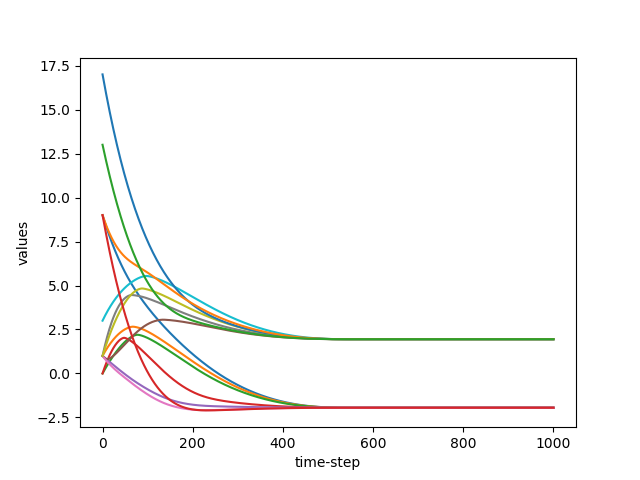
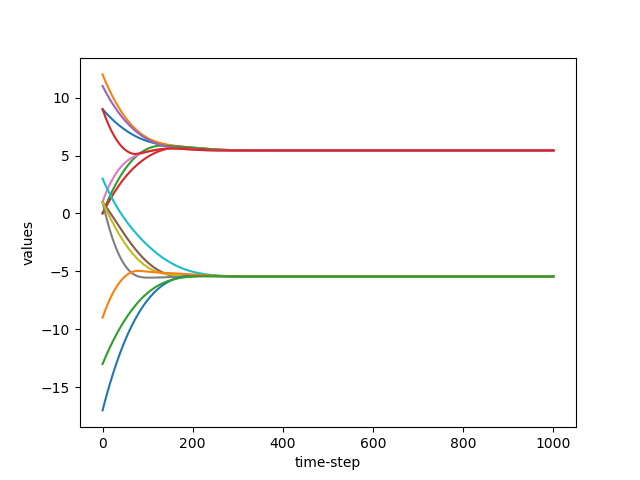
添加假的第三周的内容

diff --git a/week_3/code/ftc_cai_robustness_attack_check.py b/week_3/code/ftc_cai_robustness_attack_check.py
@@ -188,17 +188,17 @@ def attack(cur_value, time_step, attack_mode):
         '''
         F-local attack
         '''
-        if time_step == 1:
+        if time_step == 5:
             '''First sharp change'''
-            return 1
+            return 9
         else:
             '''Then, change steadily'''
-            return cur_value + 0.01
+            return cur_value - 0.01
     else:
         if time_step % 2 == 0:
-            return random.uniform(17, 18)
+            return random.uniform(16, 18)
         else:
-            return random.uniform(12, 13)
+            return random.uniform(8, 9)
 
 
 def ftc_cai_f_local(data_path, fig_path, fig_name, malicious_node, attack_mode):
@@ -207,7 +207,7 @@ def ftc_cai_f_local(data_path, fig_path, fig_name, malicious_node, attack_mode):
     matrix = get_adj_mat(graph=graph)
     print(matrix)
 
-    for time_step in range(5500):
+    for time_step in range(6000):
         for i in range(1, len(graph.nodes()) + 1):
             if i == malicious_node:
                 graph.node[i]['value'].append(
@@ -227,7 +227,7 @@ def ftc_cai_f_local(data_path, fig_path, fig_name, malicious_node, attack_mode):
 
     plt.xlabel("time-step")
     plt.ylabel("values")
-    x_axis = range(5501)
+    x_axis = range(6001)
     for i in graph.nodes():
         plt.plot(x_axis, graph.node[i]['value'])
     plt.savefig(
@@ -237,13 +237,13 @@ def ftc_cai_f_local(data_path, fig_path, fig_name, malicious_node, attack_mode):
 
 if __name__ == '__main__':
     # Balanced and unbalanced cases
-    ftc_cai(data_path="./data/data-balanced-with-7_7-nodes.in", fig_path="./pngs",
-            fig_name="Finit-Time-Consensus-Balanced-With-7_7-Nodes", graph_name="-Balanced")
-    ftc_cai(data_path="./data/data-unbalanced-with-7_7-nodes.in", fig_path="./pngs",
-            fig_name="Finit-Time-Consensus-Unbalanced-With-7_7-Nodes", graph_name="-Unbalanced")
+    # ftc_cai(data_path="./data/data-balanced-with-7_7-nodes.in", fig_path="./pngs",
+    #         fig_name="Finit-Time-Consensus-Balanced-With-7_7-Nodes", graph_name="-Balanced")
+    # ftc_cai(data_path="./data/data-unbalanced-with-7_7-nodes.in", fig_path="./pngs",
+    #         fig_name="Finit-Time-Consensus-Unbalanced-With-7_7-Nodes", graph_name="-Unbalanced")
 
     # add F-local attack with F = 1
     ftc_cai_f_local(data_path="./data/data-balanced-with-7_7-nodes.in", fig_path="./pngs",
-                    fig_name="Finit-Time-Consensus-Balanced-With-7_7-Nodes", malicious_node=5, attack_mode=0)
-    # ftc_cai_f_local(data_path="./data/data-balanced-with-7_7-nodes.in", fig_path="./pngs",
-    #                 fig_name="Finit-Time-Consensus-Balanced-With-7_7-Nodes", malicious_node=14, attack_mode=1)
+                    fig_name="Finit-Time-Consensus-Balanced-With-7_7-Nodes", malicious_node=14, attack_mode=0)
+    ftc_cai_f_local(data_path="./data/data-balanced-with-7_7-nodes.in", fig_path="./pngs",
+                    fig_name="Finit-Time-Consensus-Balanced-With-7_7-Nodes", malicious_node=14, attack_mode=1)
